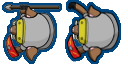
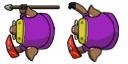
More textures

diff --git a/states/TiledState.js b/states/TiledState.js
@@ -1,7 +1,7 @@
 var Phaser = Phaser || {};
 var Platformer = Platformer || {};
 
-var style = { font: "32px Arial", fill: "#ff0044" };
+var style = { font: "32px Arial", fill: "#99ffcc" };
 
 Platformer.TiledState = function() {
     "use strict";
@@ -66,7 +66,7 @@ Platformer.TiledState.prototype.create = function() {
             this.layers[layer.name].visible = false;
         } else if (layer.name == 'walls') {
             this.walls = tiles;
-            this.layers[layer.name].pivot.set(4, -8);
+            this.layers[layer.name].pivot.set(8, -8);
         }
     }, this);
 

diff --git a/entities/Goal.js b/entities/Goal.js
@@ -1,9 +1,10 @@
 var Platformer = Platformer || {};
+var coinN = 1;
 
 Platformer.Goal = function (game_state, position, properties) {
     "use strict";
     properties = properties || {};
-    properties.texture = 'coin1';
+    properties.texture = 'coin' + (coinN++);
     properties.group = 'goals';
     Platformer.Prefab.call(this, game_state, position, properties);
 
